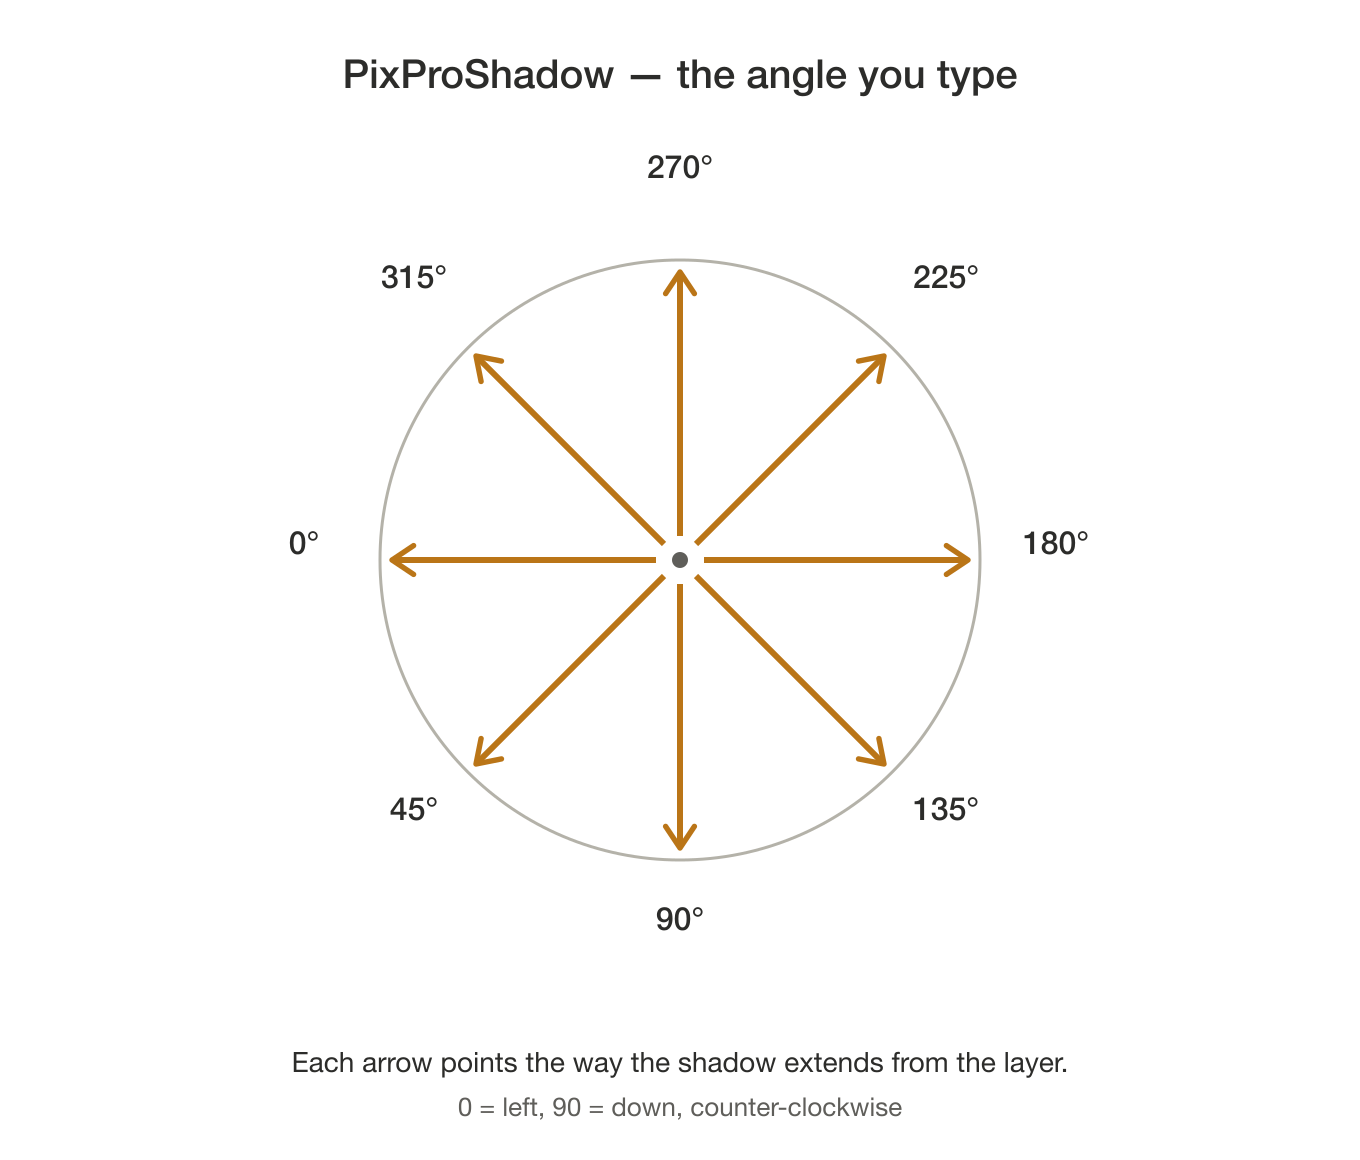
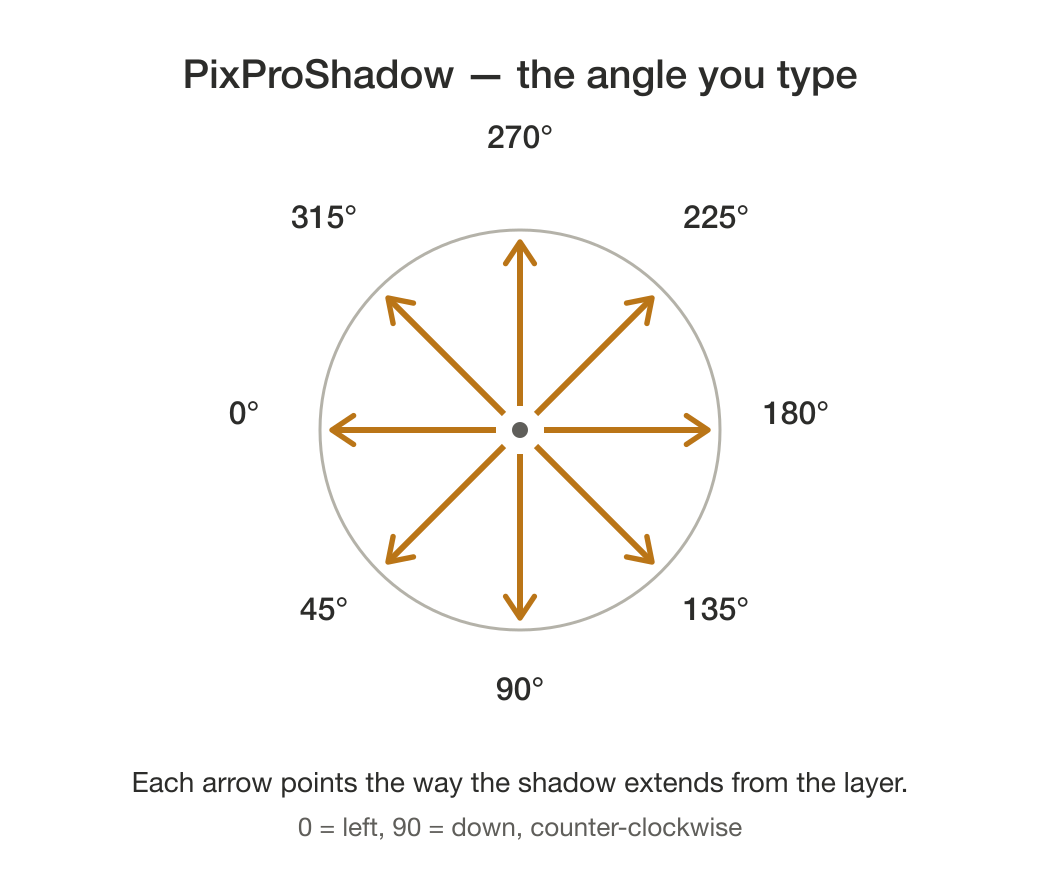
PixProShadow 7.6.6: smaller angle diagram
The angle diagram in the Read Me is smaller.

diff --git a/README.md b/README.md
@@ -1,4 +1,4 @@
-# PixProShadow 7.6.5
+# PixProShadow 7.6.6
 
 Builds a deep extruded shadow — the long-shadow, 3-D block look — behind a
 Pixelmator Pro layer, from a stack of offset copies merged into one layer.
